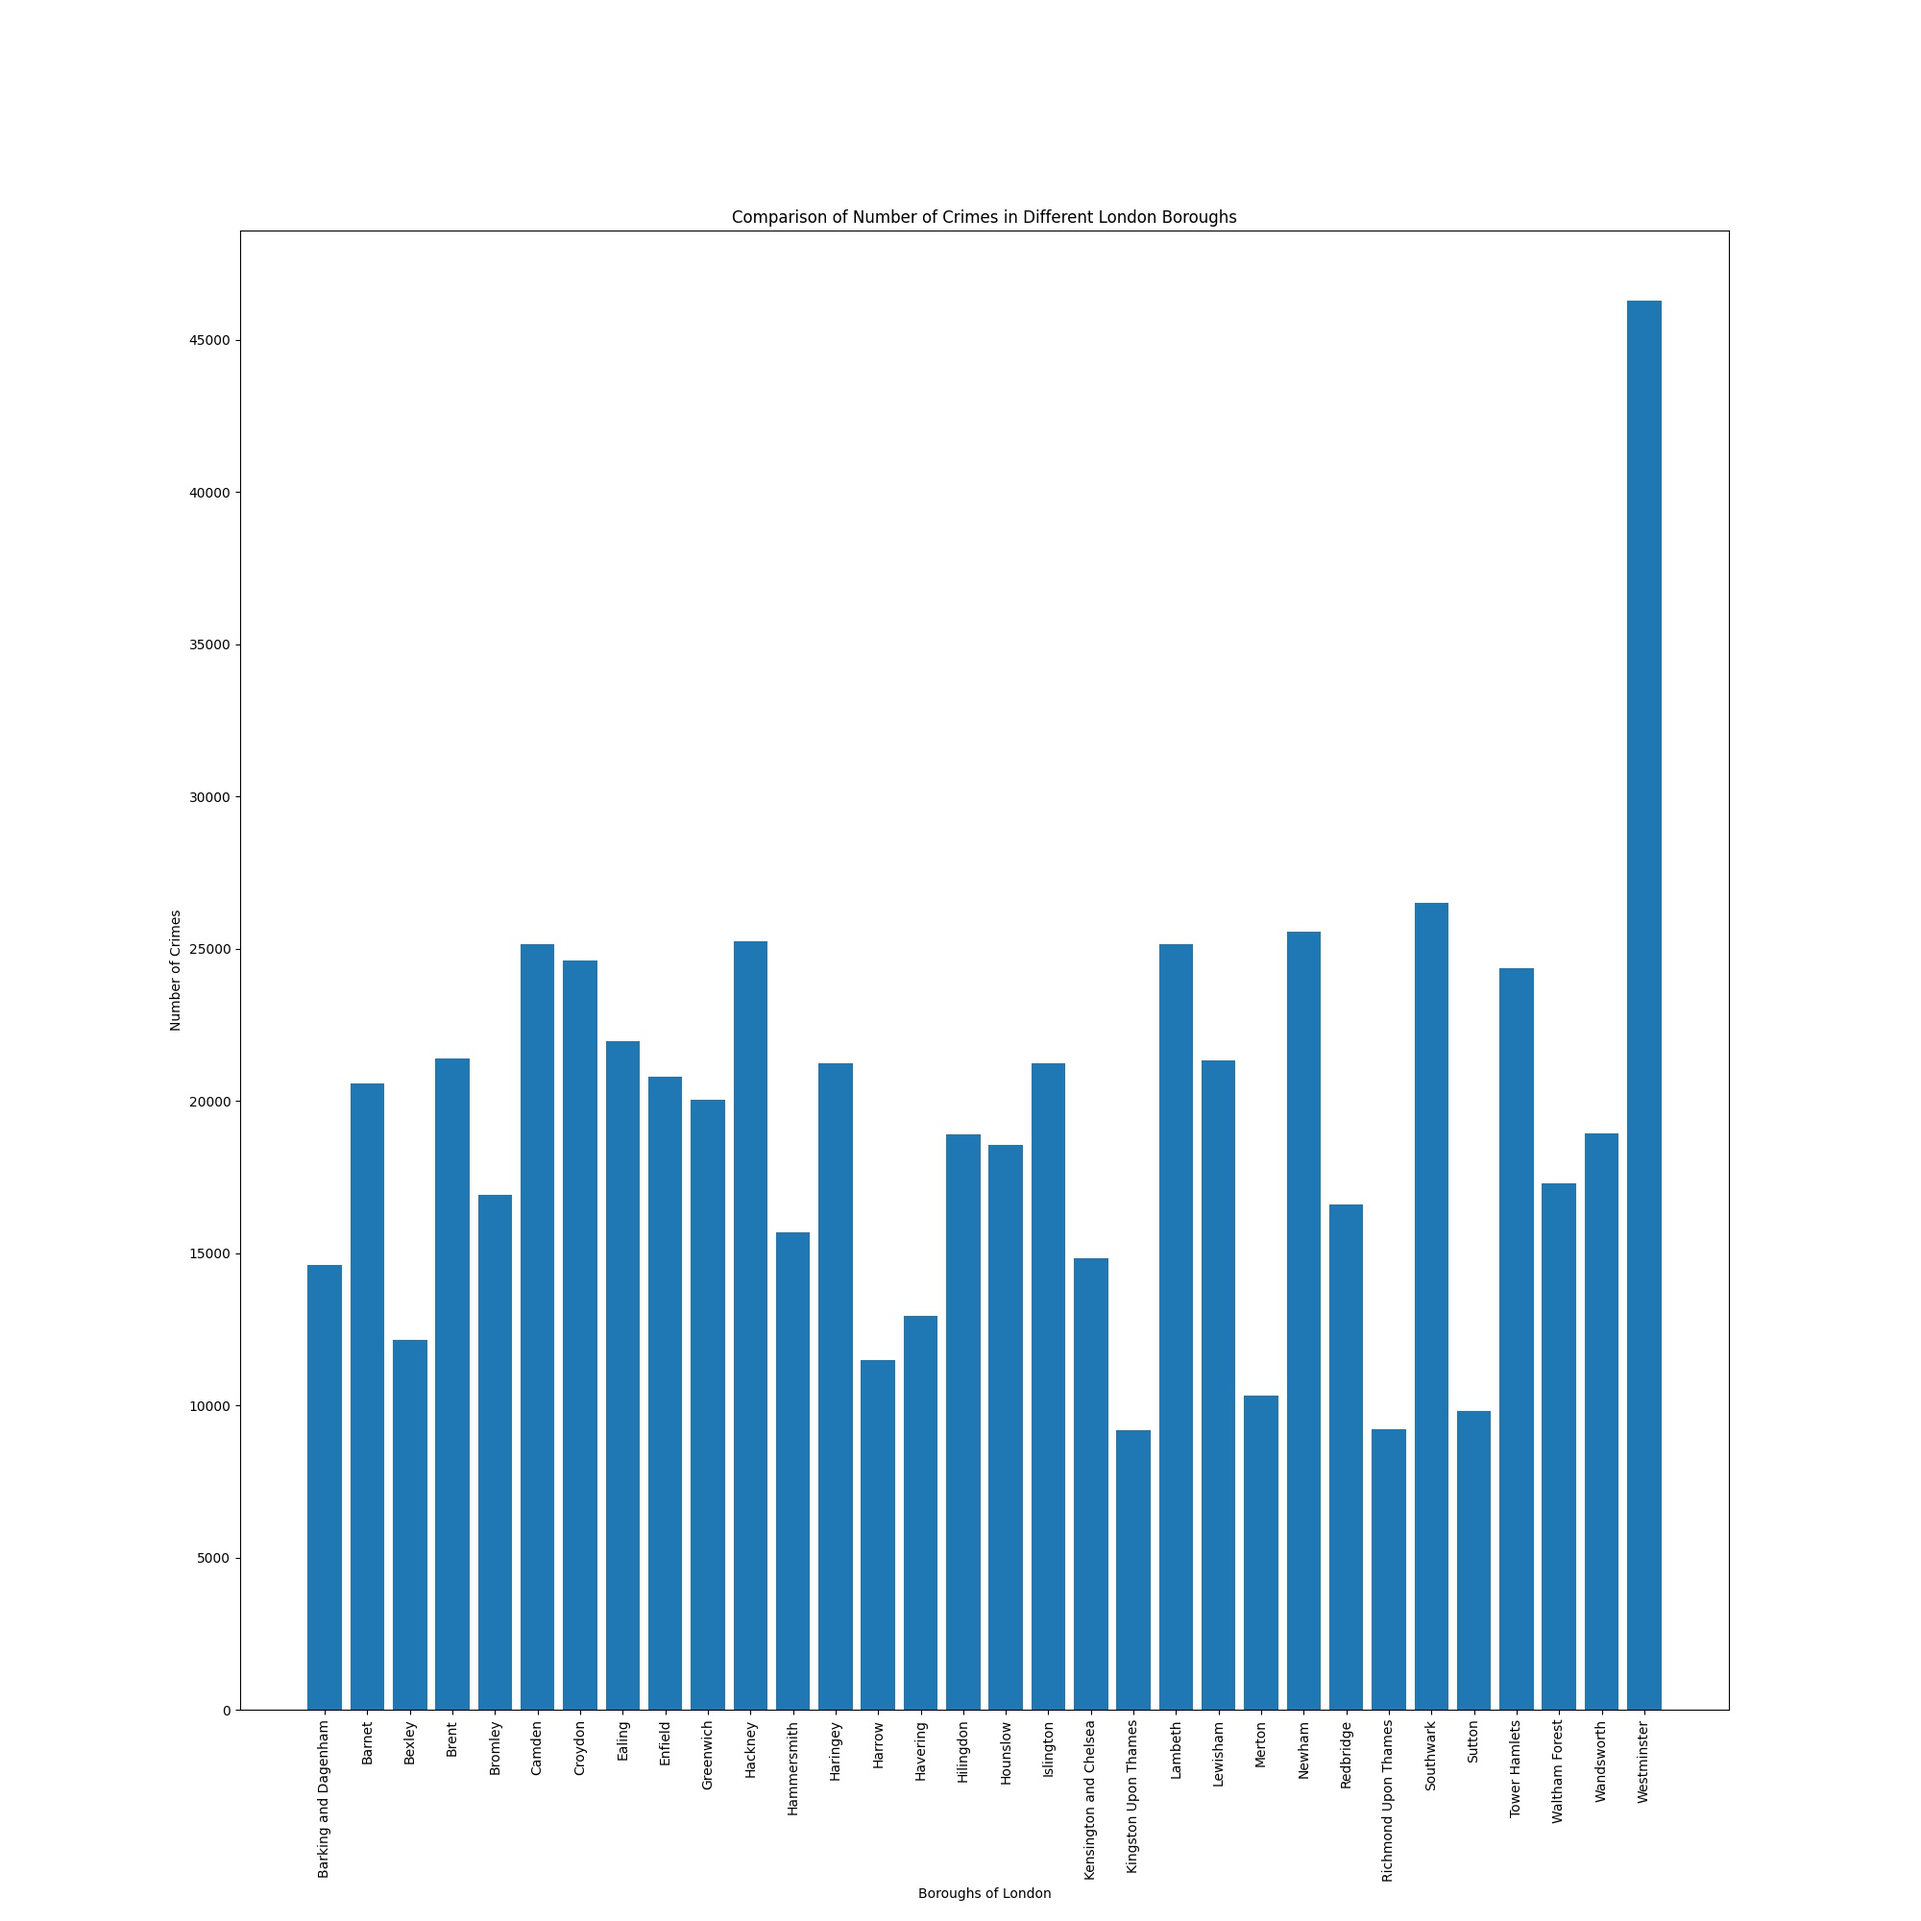
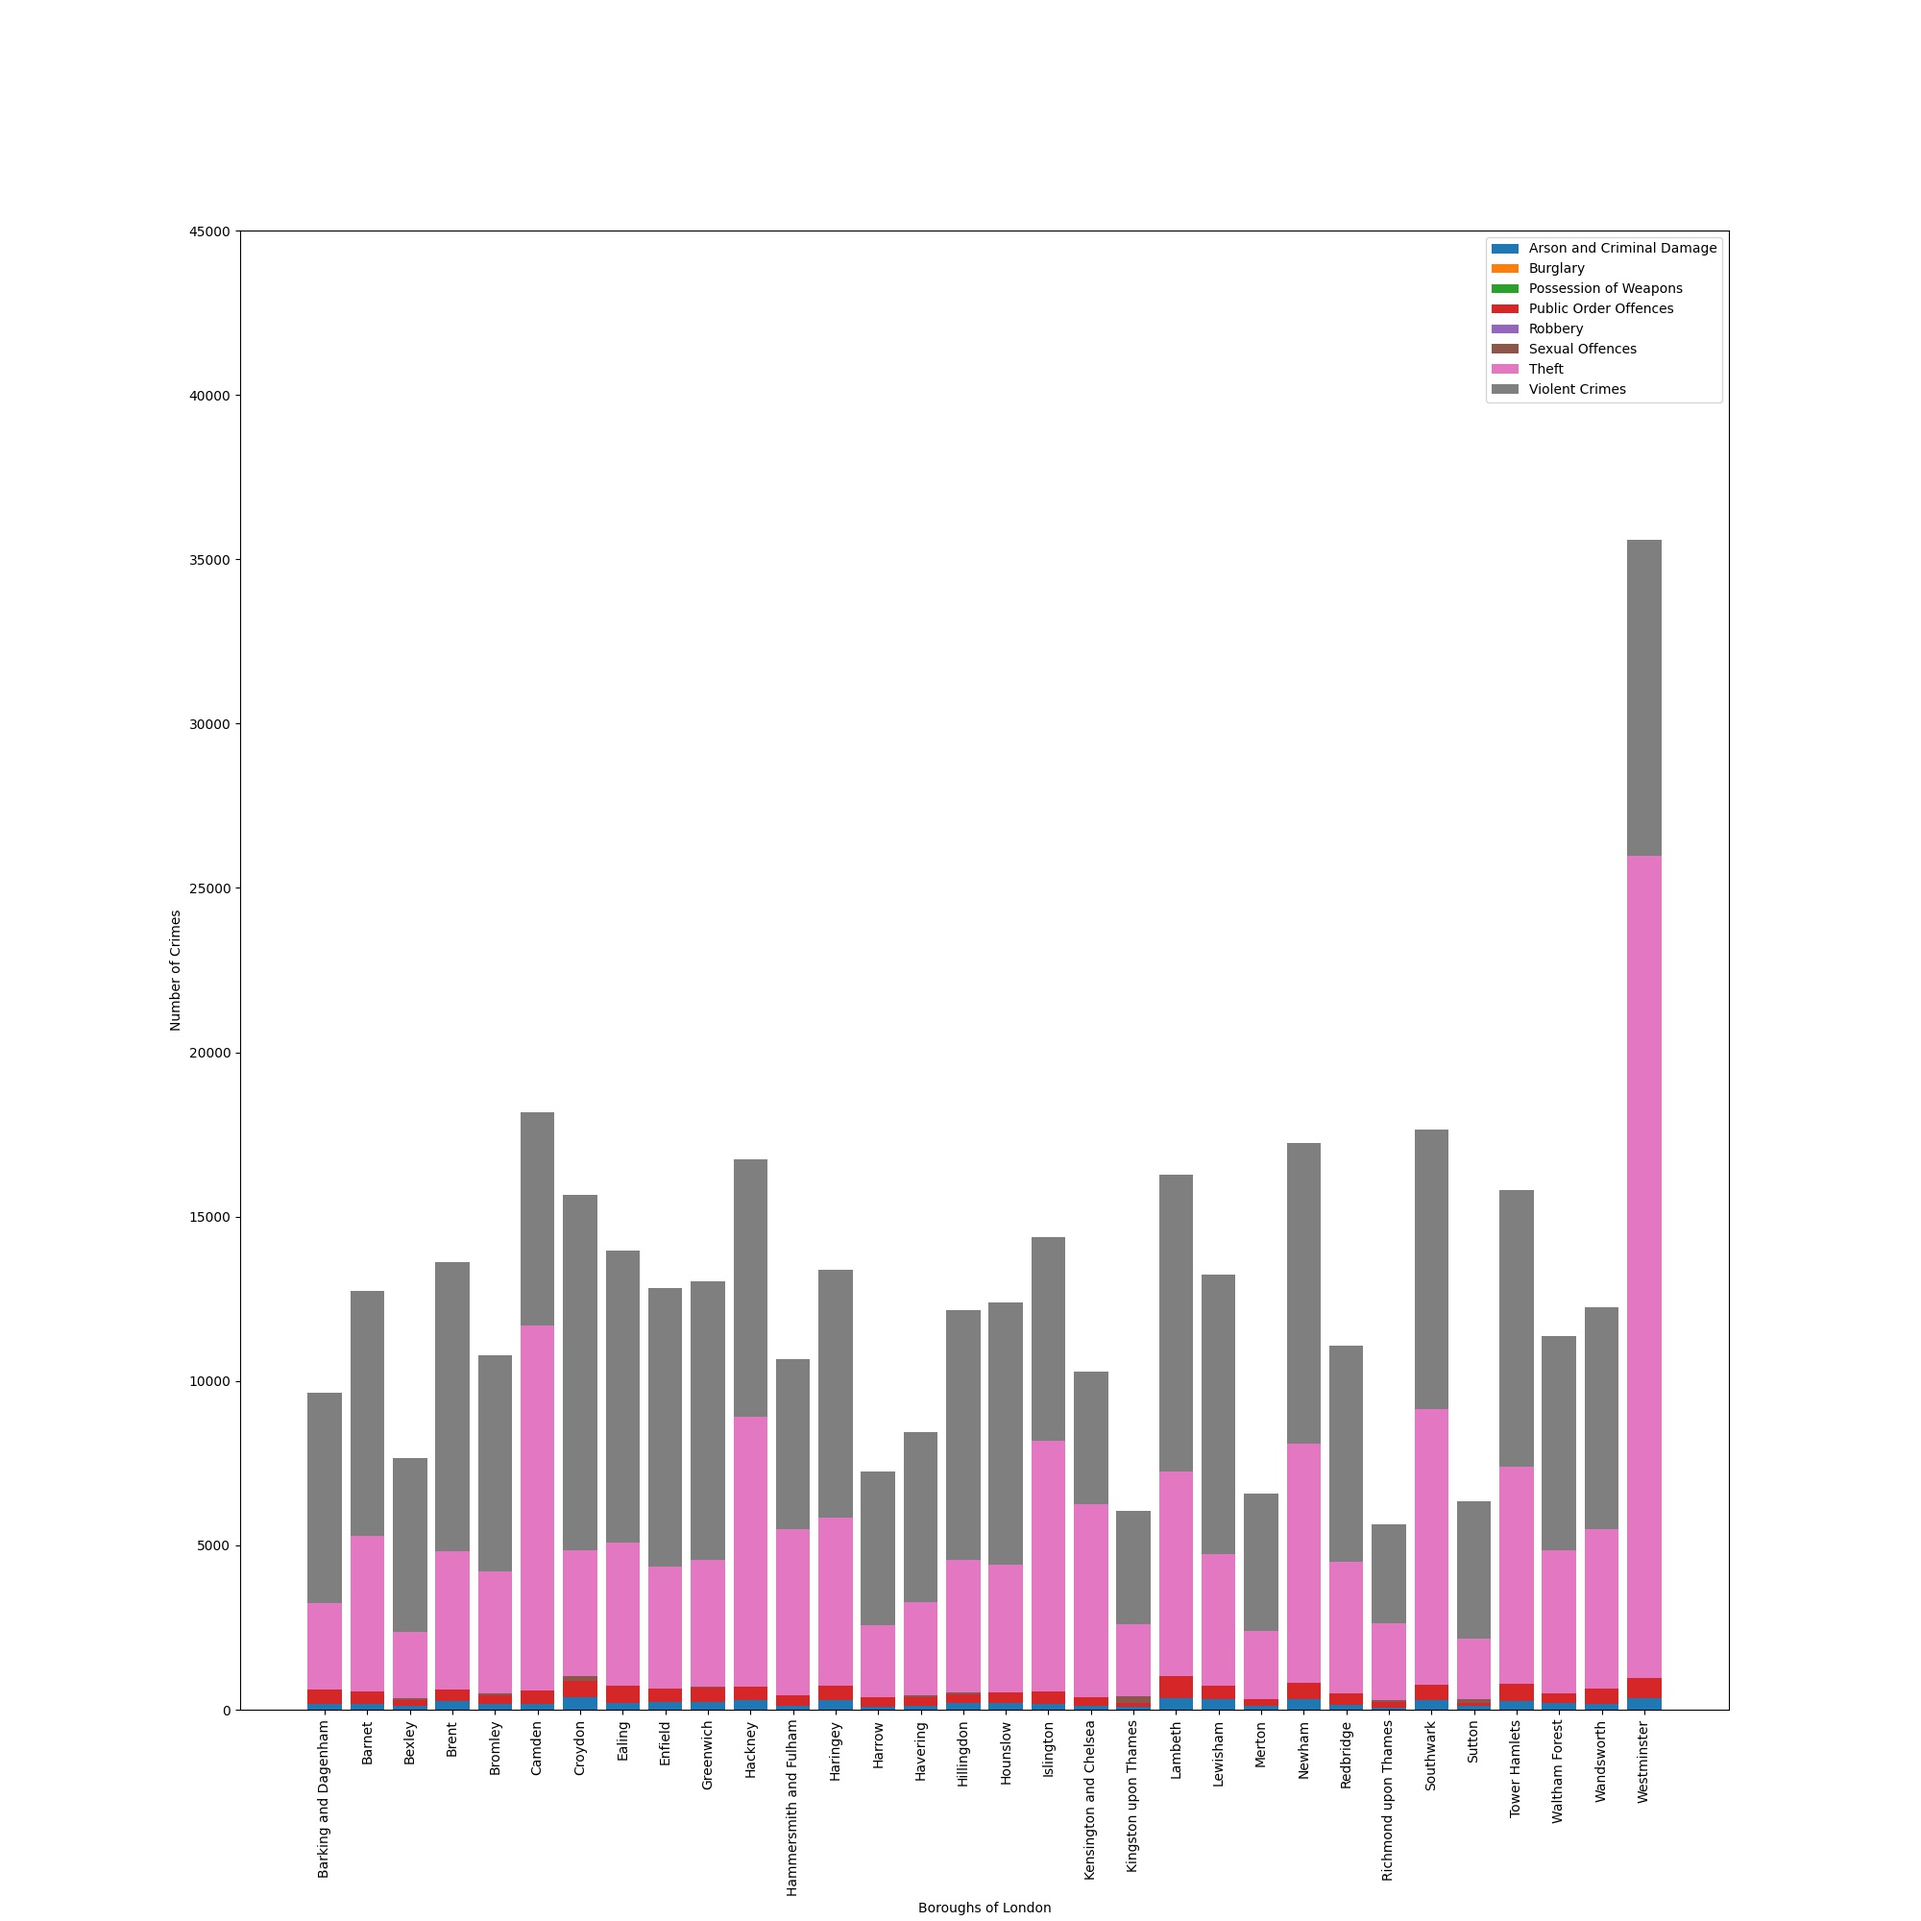
New and Improved Matplotlib graph with Stacked Bar Chart

Changed region(s): [[0.155, 0.124, 0.899, 0.93], [0.465, 0.992, 0.558, 1.0], [0.093, 0.713, 0.124, 0.744]]

diff --git a/Ben_Charts/Ben_Matplotlib_Chart.py b/Ben_Charts/Ben_Matplotlib_Chart.py
@@ -6,7 +6,6 @@ import numpy as np
 
 crime = '../Approved_datasets/MPS Borough Level Crime (most recent 24 months) (1).csv'
 
-
 df = pd.read_csv(crime)
 df2 = pd.DataFrame(df, columns=['MajorText', 'MinorText', 'LookUp_BoroughName', '201911', '201912', '202001', '202002',
                                 '202003', '202004', '202005', '202006', '202007', '202008', '202009', '202010'])
@@ -14,8 +13,8 @@ df2 = pd.DataFrame(df, columns=['MajorText', 'MinorText', 'LookUp_BoroughName', 
 df2['NumberofCrimes'] = df2['201911'] + df2['201912'] + df2['202001'] + df2['202002'] + df2['202003'] + df2['202004'] \
                         + df2['202005'] + df2['202006'] + df2['202007'] + df2['202008'] + df2['202009'] + df2['202010']
 
-df3 = df2.drop(columns = ['201911', '201912', '202001', '202002',
-                          '202003', '202004', '202005', '202006', '202007', '202008', '202009', '202010'], axis = 1)
+df3 = df2.drop(columns=['201911', '201912', '202001', '202002', '202003', '202004', '202005', '202006', '202007',
+                        '202008', '202009', '202010'], axis=1)
 
 df4 = df3[~df3.MinorText.str.contains("Business")]
 df5 = df4[~df4.MajorText.str.contains("Miscellaneous")]
@@ -23,25 +22,55 @@ df6 = df5[~df5.MajorText.str.contains("Vehicle")]
 df7 = df6[~df6.MajorText.str.contains("Drug")]
 df8 = df7[~df7.LookUp_BoroughName.str.contains("Airport")]
 
-aggregation_functions = {'LookUp_BoroughName': 'first', 'MajorText': 'first', 'NumberofCrimes': 'sum'}
-df9 = df8.groupby(df8['LookUp_BoroughName']).aggregate(aggregation_functions)
+aggregation_functions = {'NumberofCrimes': 'sum', 'LookUp_BoroughName': "first", 'MajorText': 'first'}
+df9 = df8.groupby(['LookUp_BoroughName', 'MajorText']).aggregate(aggregation_functions)
 
-boroughs = ['Barking and Dagenham', 'Barnet', 'Bexley', 'Brent', 'Bromley', 'Camden', 'Croydon', 'Ealing',
-                  'Enfield', 'Greenwich', 'Hackney', 'Hammersmith', 'Haringey', 'Harrow', 'Havering', 'Hilingdon',
-                  'Hounslow', 'Islington', 'Kensington and Chelsea', 'Kingston Upon Thames', 'Lambeth', 'Lewisham',
-            'Merton', 'Newham', 'Redbridge', 'Richmond Upon Thames', 'Southwark', 'Sutton', 'Tower Hamlets',
-            'Waltham Forest', 'Wandsworth', 'Westminster']
+ArsonFrame = df9[df9['MajorText'] == 'Arson and Criminal Damage']
+Arson = ArsonFrame['NumberofCrimes'].tolist()
 
-numberofcrimes = df9['NumberofCrimes']
+BurglaryFrame = df9[df9['MajorText'] == 'Burglary']
+Burglary = BurglaryFrame['NumberofCrimes'].tolist()
+
+Possession_of_WeaponsFrame = df9[df9['MajorText'] == 'Possession of Weapons']
+Possession_of_Weapons = Possession_of_WeaponsFrame['NumberofCrimes'].tolist()
+
+Public_Order_OffencesFrame = df9[df9['MajorText'] == 'Public Order Offences']
+Public_Order_Offences = Public_Order_OffencesFrame['NumberofCrimes'].tolist()
+
+RobberyFrame = df9[df9['MajorText'] == 'Robbery']
+Robbery = RobberyFrame['NumberofCrimes'].tolist()
+
+SexualFrame = df9[df9['MajorText'] == 'Sexual Offences']
+Sexual = SexualFrame['NumberofCrimes'].tolist()
+
+TheftFrame = df9[df9['MajorText'] == 'Theft']
+Theft = TheftFrame['NumberofCrimes'].tolist()
+
+ViolenceFrame = df9[df9['MajorText'] == 'Violence Against the Person']
+Violence = ViolenceFrame['NumberofCrimes'].tolist()
+
+boroughs = ArsonFrame['LookUp_BoroughName'].tolist()
 
 fig, ax = plt.subplots(figsize=(20, 20))
-ypos = np.arange(len(boroughs))
-plt.xticks(ypos, boroughs, rotation='vertical')
-plt.yticks(np.arange(0, 50000, step=5000))
+ind = np.arange(len(boroughs))
+
+p1 = plt.bar(ind, Arson)
+p2 = plt.bar(ind, Burglary, bottom=Arson)
+p3 = plt.bar(ind, Possession_of_Weapons, bottom=Burglary)
+p4 = plt.bar(ind, Public_Order_Offences, bottom=Possession_of_Weapons)
+p5 = plt.bar(ind, Robbery, bottom=Public_Order_Offences)
+p6 = plt.bar(ind, Sexual, bottom=Robbery)
+p7 = plt.bar(ind, Theft, bottom=Sexual)
+p8 = plt.bar(ind, Violence, bottom=Theft)
+
 plt.xlabel('Boroughs of London')
 plt.ylabel('Number of Crimes')
-ax.set_title('Comparison of Number of Crimes in Different London Boroughs')
-plt.bar(ypos, numberofcrimes)
-plt.savefig('Ben_matplotlib_graph.jpg')
+plt.xticks(ind, boroughs, rotation='vertical')
+plt.yticks(np.arange(0, 50000, step=5000))
+plt.legend((p1[0], p2[0], p3[0], p4[0], p5[0], p6[0], p7[0], p8[0]), ('Arson and Criminal Damage', 'Burglary',
+                                                                      'Possession of Weapons', 'Public Order Offences',
+                                                                      'Robbery', 'Sexual Offences', 'Theft',
+                                                                      'Violent Crimes'))
 
+plt.savefig('Ben_matplotlib_graph.jpg')
 plt.show()
